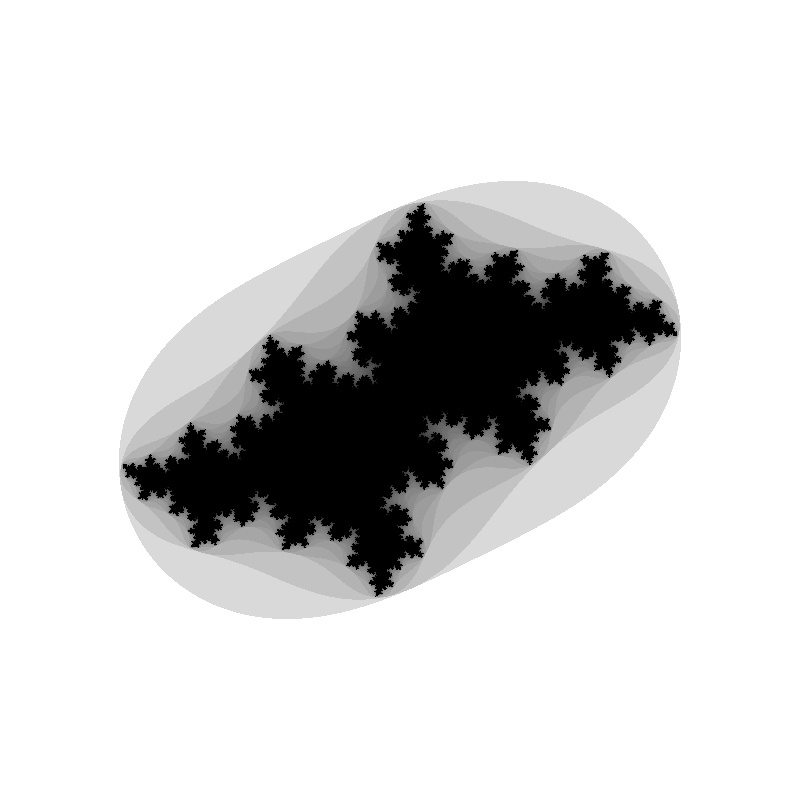
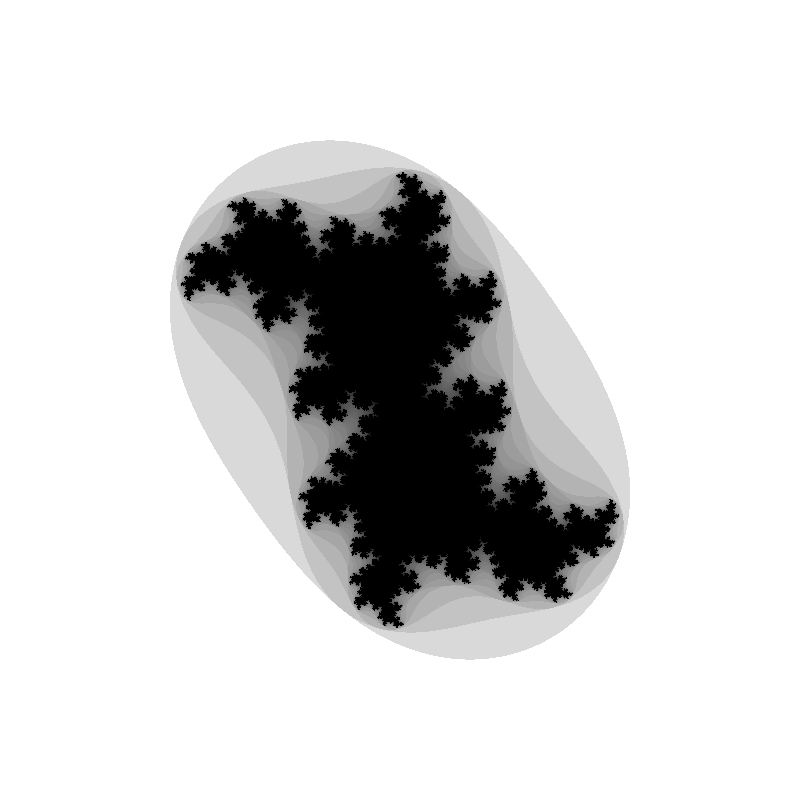
switch to pygame
like 100x faster

Changed region(s): [[0.125, 0.1562, 0.875, 0.8438]]

diff --git a/main.py b/main.py
@@ -2,11 +2,16 @@
 
 from math import *
 from random import choice
-from tkinter import *
+from tkinter import Tk
 from tkinter.filedialog import asksaveasfilename
+import sys
 from sortedcontainers import SortedList
-from PIL import Image, ImageTk
-from image_export import create_image
+import pygame
+
+try:
+    from image_export import create_image
+except ImportError:
+    print("unable to import image_export")
 
 def iteration(z, c):
     root = (z - c)**0.5
@@ -15,59 +20,107 @@ def iteration(z, c):
 def derivative(z):
     return 2*abs(z)
 
+Tk().withdraw()
+
+pygame.init()
+pygame.key.set_repeat(200, 20)
+
 #press ctrl+s to export the prisoner set of the current Julia set as a bitmap (PNG)
+#click to set c, use arrows to change c by one pixel
 
 class App:
     #!! y axis points down
-    def __init__(self, root, width, height, scale=None,
-                  point_limit=50000, #decrease if response for click is too delayed after you have not clicked for some time,
-                                     #increase if Julia sets aren't drawn thoroughly enough even after some time
-                  approach=50, #increase if you see points clearly out of JS, decrease otherwise
+    def __init__(self, width, height, scale=None,
+                  c=0, #initial value of c in the equation z -> z^2+c
+                  point_limit=200000, #maximum number of points drawn or -1 for unlimited, increase if Julia sets aren't drawn thoroughly enough even after the drawing stops
+                  approach=30, #increase if you sometimes see points clearly out of the JS, decrease otherwise
                   center_x=0, center_y=0,
-                  points_per_frame=1000 #decrease if it lags, increase if Julia sets aren't drawn quickly enough
+                  points_per_frame=1000, #number of points drawn at once, decrease if it lags, increase if Julia sets aren't drawn quickly enough
+                  drag_point_size=1, point_size=0, #size of a point while dragging and otherwise, a single pixel will be drawn for sizes < 1
+                  label_height=None, label_offset=None, label_font_size=None,
                   ):
-        self.root = root
+                #parameter value of `None` means autodecide
         self.width = width
         self.height = height
+        self.label_height = self.height//14 if label_height is None else label_height
+        self.label_offset = self.width//30 if label_offset is None else label_offset
+        self.label_font_size = min(self.label_height//2, self.width//22) if label_font_size is None else label_font_size
+        self.screen = pygame.display.set_mode((self.width, self.height + self.label_height))
+        self.label = self.screen.subsurface((0, 0, self.width, self.label_height))
+        self.label_bg = (192,192,192)
+        self.canvas = self.screen.subsurface((0, self.label_height, self.width, self.height))
+        self.font = pygame.font.SysFont("consolas", self.label_font_size)
         self.scale = scale if scale is not None else min(self.width, self.height) // 4
-        self.z = 50 +1j
-        self.c = 0
-        self.points = []
-        self.to_draw = SortedList([(self.z, 0)], key = lambda x:-x[1])
+        self.c = c
+        self.num_points = 0
+        self.to_draw = SortedList(key = lambda x:-x[1])
         self.point_limit = point_limit
         self.approach = approach
         self.center_x = center_x
         self.center_y = center_y
         self.points_per_frame = points_per_frame
-        self.paused = False
-        self.prepare()
-
-    def prepare(self):
-        self.root.title("Tk Mandelbrot set")
-        self.root.iconbitmap("mandelbrot.ico")
-        self.label = Label(self.root, text = "", font = ("Courier New", 12))
-        self.label.pack()
-        self.leave(None)
-        self.canvas = Canvas(self.root, width=self.width, height=self.height, bg="white")
-        self.canvas.pack()
-        self.mandelbrot_image()
-        self.canvas.bind("<B1-Motion>", self.drag)
-        self.canvas.bind("<Motion>", self.mousemove)
-        self.canvas.bind("<Button-1>", self.drag)
-        self.canvas.bind("<Enter>", self.mousemove)
-        self.canvas.bind("<Leave>", self.leave)
-        self.root.bind("<Control-s>", self.export_image)
-        self.reset_points()
+        self.drag_point_size = int(drag_point_size)
+        self.point_size = int(point_size)
+        self.drag = None
+        self.motion = None
+        pygame.display.set_caption("Interactive Julia set generator")
+        icon = pygame.image.load("icon.png")
+        pygame.display.set_icon(icon)
+        self.mandelbrot = pygame.image.load("mandelbrot.png") #image of mandelbrot set in the square {x+yi | max(abs(x),abs(y))<2}
+        self.reset()
         
     def run(self):
-        self.drawing_loop()
-        self.root.mainloop()
-
-    def export_image(self, event):
+        pygame.display.flip()
+        while True:
+            pygame.time.wait(20)
+            if self.drag is not None:
+                self.update_c(self.drag)
+            self.drag = None
+            self.motion = None
+            for event in pygame.event.get():
+                if event.type == pygame.QUIT:
+                    pygame.quit()
+                    sys.exit()
+                elif event.type == pygame.MOUSEMOTION and event.buttons[0]:
+                    self.drag = event
+                elif event.type == pygame.MOUSEMOTION:
+                    self.motion = event
+                elif event.type == pygame.WINDOWLEAVE:
+                    self.leave(event)
+                    self.motion = self.drag = None
+                    break
+                elif event.type == pygame.MOUSEBUTTONDOWN and event.button == 1:
+                    self.update_c(event)
+                elif event.type == pygame.KEYDOWN:
+                    if event.key == pygame.K_s and event.mod & pygame.KMOD_CTRL:
+                        self.export_image()
+                        pygame.event.clear()
+                        break
+                    elif event.key in (pygame.K_UP, pygame.K_DOWN, pygame.K_LEFT, pygame.K_RIGHT):
+                        x,y = self.c.real, self.c.imag
+                        x,y = self.to_canvas_coords(x,y)
+                        dx,dy = {pygame.K_UP: (0,-1), pygame.K_DOWN: (0,1),
+                                 pygame.K_LEFT: (-1,0), pygame.K_RIGHT: (1,0)}[event.key]
+                        x,y = self.to_plane_coords(x+dx, y+dy, absolute=False)
+                        self.c = x + y*1j
+                        self.reset()
+                        break
+            if self.motion is not None:
+                self.mousemotion(self.motion)
+        
+            if self.num_points < self.point_limit or self.point_limit == -1:
+                for i in range(self.points_per_frame):
+                    point = self.to_draw.pop()
+                    self.add_point(point[0])
+                    for new_z in iteration(point[0], self.c):
+                        new_derivative = point[1] + log(derivative(new_z))
+                        self.to_draw.add((new_z, new_derivative))
+            pygame.display.flip()
+                
+    def export_image(self):
         print("exporting image... ", end="")
-        self.paused = True
         c = self.c
-        x, y = c.real, c.imag
+        x,y = c.real, c.imag
         default_name = "prisoner_set_{:.2f}{:+.2f}i".format(x,y)
         name = asksaveasfilename(filetypes=[("PNG image", "*.png"), ("All files", "*.*")],
                              defaultextension=".png",
@@ -78,80 +131,78 @@ class App:
             img = create_image(c, iterations=100)
             img.save(name)
             print("finished")
-        self.paused = False
-        self.drawing_loop()
 
-    def mandelbrot_image(self):
-        img = Image.open("mandelbrot.png") #image of mandelbrot set in max(abs(x),abs(y))=2 square
-        img = img.resize((4*self.scale, 4*self.scale))
-        img = ImageTk.PhotoImage(img)
-        self.mandelbrot = img
-        self.mandelbrot_canvas = self.canvas.create_image(*self.to_canvas_coords(0,0), image = img, anchor = "center")
+    def to_canvas_coords(self, x,y):
+        canvas_x = round(self.width / 2 + (x - self.center_x) * self.scale)
+        canvas_y = round(self.height / 2 + (-y - self.center_y) * self.scale)
+        return (canvas_x, canvas_y)
 
-
-
-    def to_canvas_coords(self, x, y):
-        canvas_x = self.width / 2 + (x - self.center_x) * self.scale
-        canvas_y = self.height / 2 + (-y - self.center_y) * self.scale
-        return(canvas_x, canvas_y)
-
-    def to_plane_coords(self, x ,y):
-        plane_x = (x - self.width / 2) / self.scale + self.center_x
-        plane_y = -((y - self.height / 2) / self.scale + self.center_y)
-        return(plane_x, plane_y)
+    def to_plane_coords(self, x,y, absolute=True):
+        """absolute - whether the given coordinates are window coordinates (True)
+        or canvas coordinates (False)"""
+        dx = dy = 0
+        if absolute:
+            dx,dy = self.canvas.get_abs_offset()
+        plane_x = (x - dx - self.width / 2) / self.scale + self.center_x
+        plane_y = -((y - dy - self.height / 2) / self.scale + self.center_y)
+        return (plane_x, plane_y)
     
     def add_point(self, z):
-        x, y = z.real, z.imag
-        x, y = self.to_canvas_coords(x, y)
-        new_point = self.canvas.create_rectangle((x,y,x,y))
-        self.points.append(new_point)
+        x,y = z.real, z.imag
+        x,y = self.to_canvas_coords(x,y)
+        self.num_points += 1
+        if self.drag is not None:
+            pygame.draw.circle(self.canvas, (0,0,0), (x,y), self.drag_point_size)
+        else:
+            pygame.draw.circle(self.canvas, (0,0,0), (x,y), self.point_size)
+        self.canvas.set_at((x,y), (0,0,0)) #a single pixel is drawn anyway
 
-    def mousemove(self, event):
-        x = event.x; y = event.y
-        x, y = self.to_plane_coords(x, y)
-        self.label["text"] = "pointer: {: .2f}{:+.2f}i      c = {: .2f}{:+.2f}i".format(x, y, self.c.real, self.c.imag)
+    def mousemotion(self, event):
+        x,y = event.pos
+        x,y = self.to_plane_coords(x,y)
+        self.update_label("pointer: {: .2f}{:+.2f}i".format(x,y),"c = {: .2f}{:+.2f}i".format(self.c.real, self.c.imag))
 
-    def drag(self, event):
-        x = event.x; y = event.y
-        x, y = self.to_plane_coords(x, y)
+    def update_c(self, event):
+        x,y = event.pos
+        x,y = self.to_plane_coords(x,y)
         self.c = x + y*1j
-        self.label["text"] = "pointer: {: .2f}{:+.2f}i      c = {: .2f}{:+.2f}i".format(x, y, self.c.real, self.c.imag)
-        self.z = 50 +1j
-        self.reset_points()
+        self.reset()
 
-    def reset_points(self):
+    def reset(self):
+        z = 50 + 1j
+        self.num_points = 0
         for i in range(self.approach):
-            self.z = choice(iteration(self.z, self.c))
+            z = choice(iteration(z, self.c))
         self.to_draw.clear()
-        self.to_draw.add((self.z, 0))
-        while len(self.points) > 0:
-            self.canvas.delete(self.points.pop())
-            
+        self.to_draw.add((z, 0))
+        self.canvas.fill((255,255,255))
+        self.canvas.blit(pygame.transform.smoothscale(self.mandelbrot, (4*self.scale, 4*self.scale)), self.to_canvas_coords(-2,2))
+        self.update_label("pointer: {: .2f}{:+.2f}i".format(*self.to_plane_coords(*pygame.mouse.get_pos())),"c = {: .2f}{:+.2f}i".format(self.c.real, self.c.imag))
+                    
     def leave(self, event):
-        self.label["text"] = "click to set c            c = {: .2f}{:+.2f}i".format(self.c.real, self.c.imag)
-    
-    def drawing_loop(self):
-        if self.paused:
-            return
-        if len(self.points) < self.point_limit:
-            for i in range(self.points_per_frame):
-                point = self.to_draw.pop()
-                self.add_point(point[0])
-                for new_z in iteration(point[0], self.c):
-                    new_derivative = point[1] + log(derivative(new_z))
-                    self.to_draw.add((new_z, new_derivative))
-        self.root.after(20, self.drawing_loop)
-        
+        self.update_label("click to set c", "c = {: .2f}{:+.2f}i".format(self.c.real, self.c.imag))
 
-x = Tk()
-app = App(x, 600, 600,
-          point_limit=50000, 
-          approach=50, 
-          points_per_frame=1000 
+    def update_label(self, left, right):
+        self.label.fill(self.label_bg)
+        text_left = self.font.render(left,True,(0,0,0), self.label_bg)
+        text_right = self.font.render(right,True,(0,0,0), self.label_bg)
+        width = text_right.get_width()
+        self.label.blit(text_left, (self.label_offset, (self.label_height - self.font.get_ascent())/2))
+        self.label.blit(text_right, (self.width - width - self.label_offset, (self.label_height - self.font.get_ascent())/2))
+                
+app = App(700, 700, scale=None,
+          c=0,
+          point_limit=200000, 
+          approach=30, 
+          center_x=0, center_y=0,
+          points_per_frame=1000, 
+          drag_point_size=1, point_size=0, 
+          label_height=None, label_offset=None, label_font_size=None,
           )
 app.run()
 
 """
+try c=
 -0.3905407802-0.5867879073j
 0.28+0.53j
 -0.83+0.16j

diff --git a/README.md b/README.md
@@ -1,12 +1,12 @@
-# tk-mandelbrot-set
-Python3 real-time Julia sets generator in tkinter. 
-Run `main.py`. Click to change the constant *c* in the function z → z<sup>2</sup>+c and you will get the border of this function's prisoner set - the Julia set.
+# real-time-juila
+Python3 real-time Julia sets generator in pygame. 
+Run `main.py`. Click or use arrows to change the constant *c* in the function z → z<sup>2</sup>+c and you will get the border of this function's prisoner set - the Julia set. 
 Press <kbd>ctrl</kbd>+<kbd>S</kbd> to export the prisoner set as a bitmap (PNG). There is the Mandelbrot set in the background as a "map".
 
 Requirements:
 ```
+pygame>=2.0.0
 sortedcontainers
-PIL
+Pillow #necessary for image export only
 ```
 ![Running example GIF](/images/example.gif)
-
